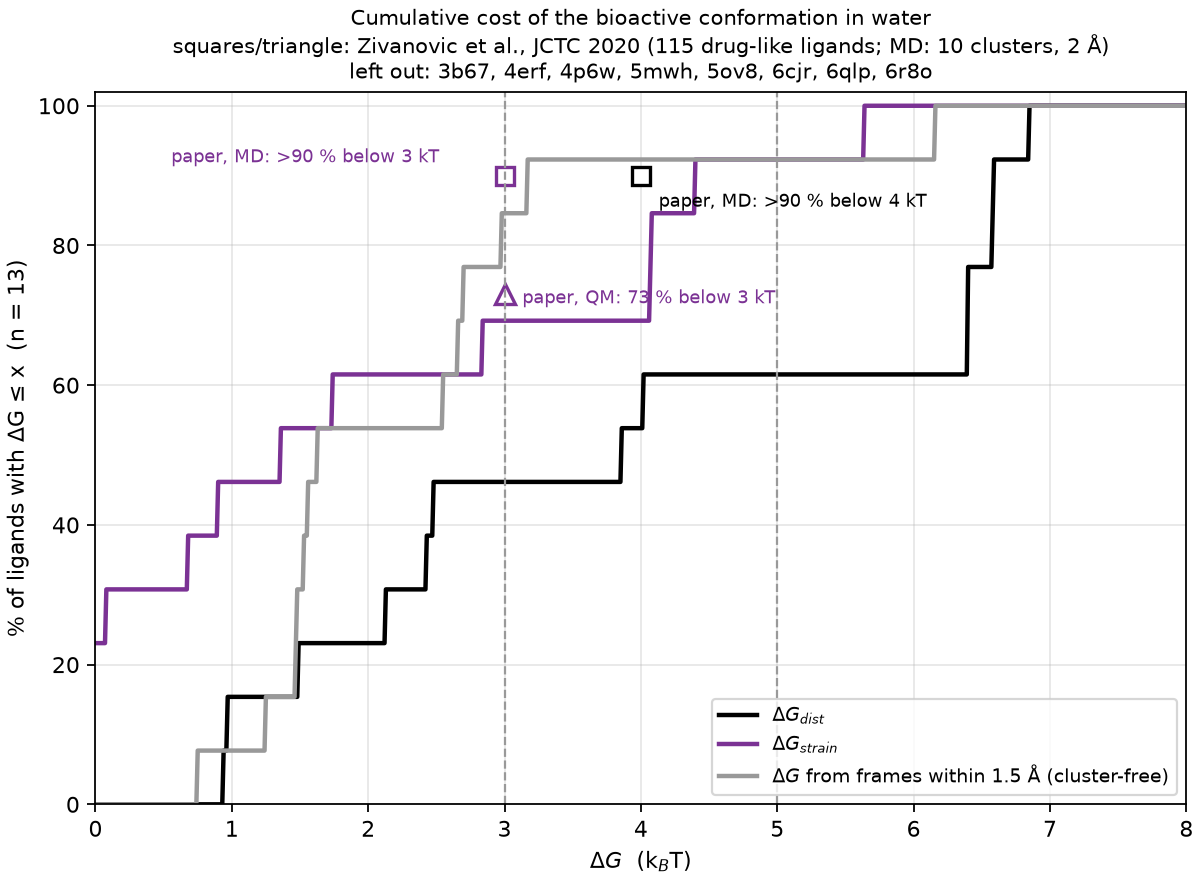
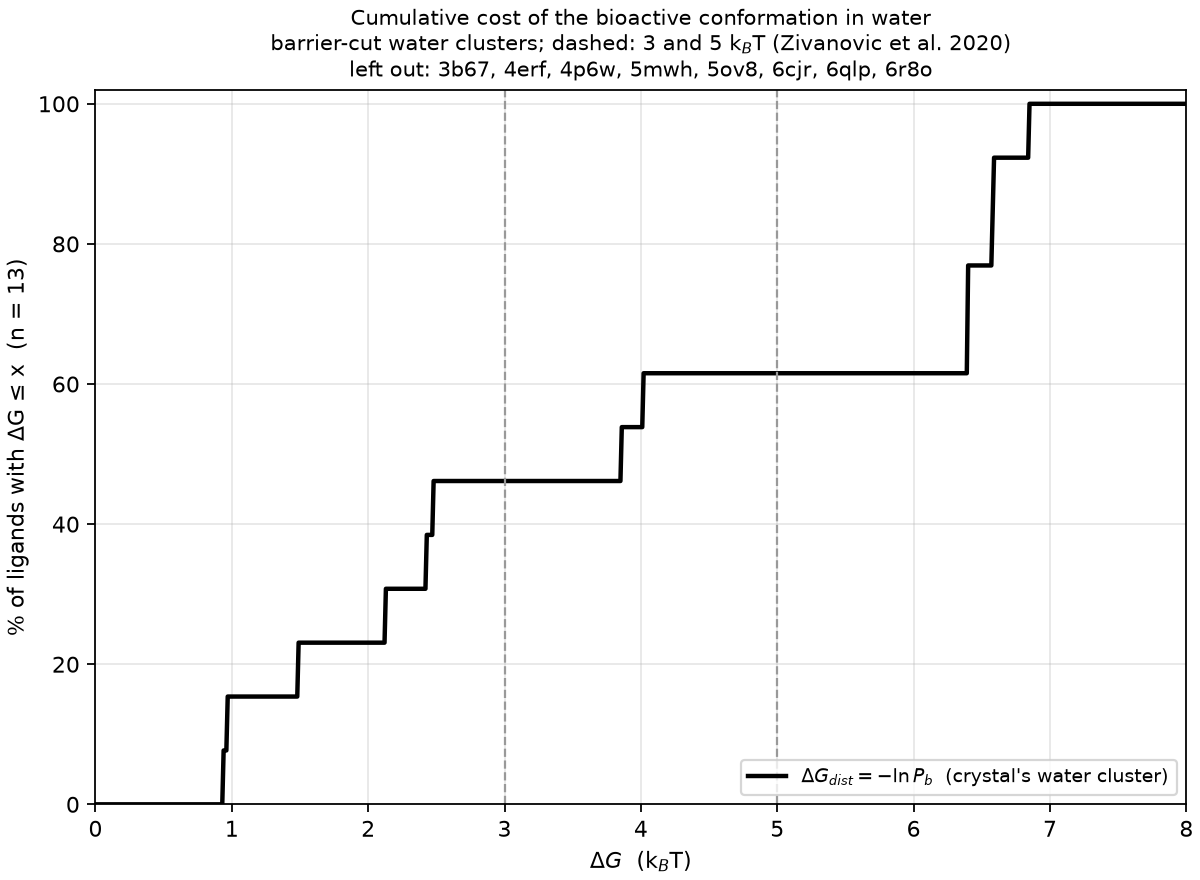
Bioactive cost cumulative plot: dG_dist only, no paper markers

diff --git a/analysis/report/bioactive_cost.py b/analysis/report/bioactive_cost.py
@@ -19,7 +19,7 @@ Figures (results/overview/bioactive-cost/):
   bioactive_cost_ranked.png      one row per ligand, sorted by dG_dist: dG_dist (dot, block SE),
                                  dG_strain (hollow diamond), RMSD-based dG from 2.0 to 1.0 A (grey bar,
                                  tick at 1.5 A); ligand names coloured by the barrier-cut KL regime
-  bioactive_cost_cumulative.png  % of ligands with dG <= x (dist and strain), with the paper's numbers
+  bioactive_cost_cumulative.png  % of ligands with dG_dist <= x
   bioactive_cost.csv
 
   python -I bioactive_cost.py [--compounds ...] [--blocks 5]
@@ -188,20 +188,9 @@ def plot_cumulative(df, left_out, path):
     fig, ax = plt.subplots(figsize=(7.5, 5.5), layout="constrained")
     xmax = max(8.0, float(df.dG_dist.max()) + 0.5)
     grid = np.linspace(0, xmax, 801)
-    for col, lab, c in (("dG_dist", r"$\Delta G_{dist}$", "k"), ("dG_strain", r"$\Delta G_{strain}$", "#7b3294"),
-                        ("dG_rmsd_1.5A", r"$\Delta G$ from frames within 1.5 Å (cluster-free)", "0.6")):
-        v = df[col].to_numpy()
-        ax.plot(grid, [100 * np.mean(v <= g) for g in grid], color=c, lw=2, label=lab)
-    # Zivanovic et al. 2020: MD (10 clusters, 2.0 A) dG_dist < 4 kT and dG_strain < 3 kT in > 90 %;
-    # QM/SCRF dG_strain < 3 kT in 73 % (abstract)
-    ax.plot([4], [90], "s", color="k", mfc="white", ms=8, mew=1.5)
-    ax.plot([3], [90], "s", color="#7b3294", mfc="white", ms=8, mew=1.5)
-    ax.plot([3], [73], "^", color="#7b3294", mfc="white", ms=9, mew=1.5)
-    ax.annotate("paper, MD: >90 % below 4 kT", (4, 90), textcoords="offset points", xytext=(8, -14), fontsize=8)
-    ax.annotate("paper, MD: >90 % below 3 kT", (3, 90), textcoords="offset points", xytext=(-150, 6), fontsize=8,
-                color="#7b3294")
-    ax.annotate("paper, QM: 73 % below 3 kT", (3, 73), textcoords="offset points", xytext=(8, -4), fontsize=8,
-                color="#7b3294")
+    v = df["dG_dist"].to_numpy()
+    ax.plot(grid, [100 * np.mean(v <= g) for g in grid], color="k", lw=2,
+            label=r"$\Delta G_{dist} = -\ln P_b$  (crystal's water cluster)")
     for x in (3, 5):
         ax.axvline(x, color="0.6", ls="--", lw=1)
     ax.set_xlim(0, xmax)
@@ -211,7 +200,7 @@ def plot_cumulative(df, left_out, path):
     ax.grid(alpha=0.3)
     ax.legend(loc="lower right", fontsize=8.5)
     ax.set_title("Cumulative cost of the bioactive conformation in water\n"
-                 "squares/triangle: Zivanovic et al., JCTC 2020 (115 drug-like ligands; MD: 10 clusters, 2 Å)"
+                 "barrier-cut water clusters; dashed: 3 and 5 k$_B$T (Zivanovic et al. 2020)"
                  + (f"\nleft out: {', '.join(left_out)}" if left_out else ""), fontsize=9.5)
     fig.savefig(path, dpi=160)
     plt.close(fig)

diff --git a/analysis/report/README.md b/analysis/report/README.md
@@ -85,6 +85,6 @@ barrier-cut WATER cluster the crystal falls in, the gold frame of `*_water_clust
 dG_strain = -ln(P_b/P_0) (P_0 = most populated water cluster), in k_BT, block SE over 5 time blocks;
 cluster-free cross-check: fraction of water frames within 1.0 / 1.5 / 2.0 A symmetry-corrected
 heavy-atom RMSD of the crystal -> `results/overview/bioactive-cost/` (`bioactive_cost_ranked.png`,
-`bioactive_cost_cumulative.png` with the paper's numbers, `bioactive_cost.csv`). Crystals cluster_cut
+`bioactive_cost_cumulative.png` (dG_dist only), `bioactive_cost.csv`). Crystals cluster_cut
 cannot place (cut through a polar H; symmetric assignments in different clusters) are left out of the
 figures but keep their RMSD-based values in the CSV.
